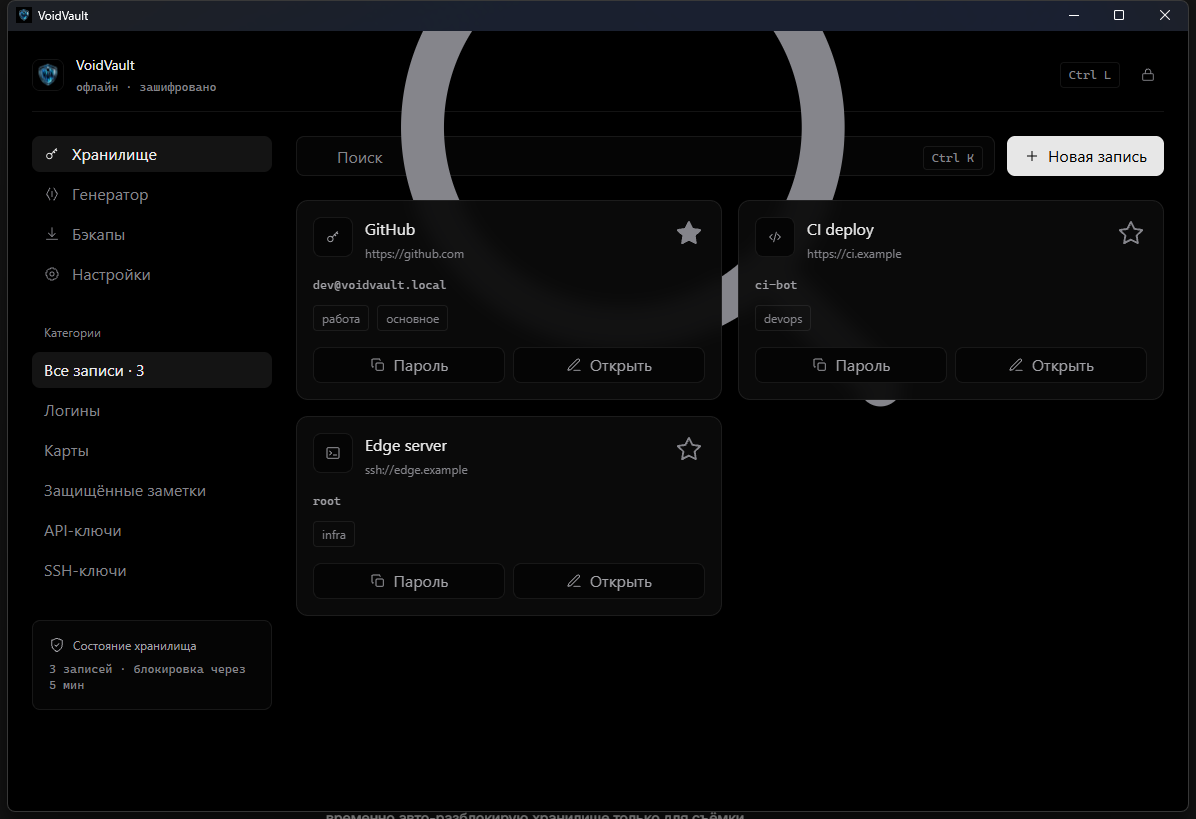
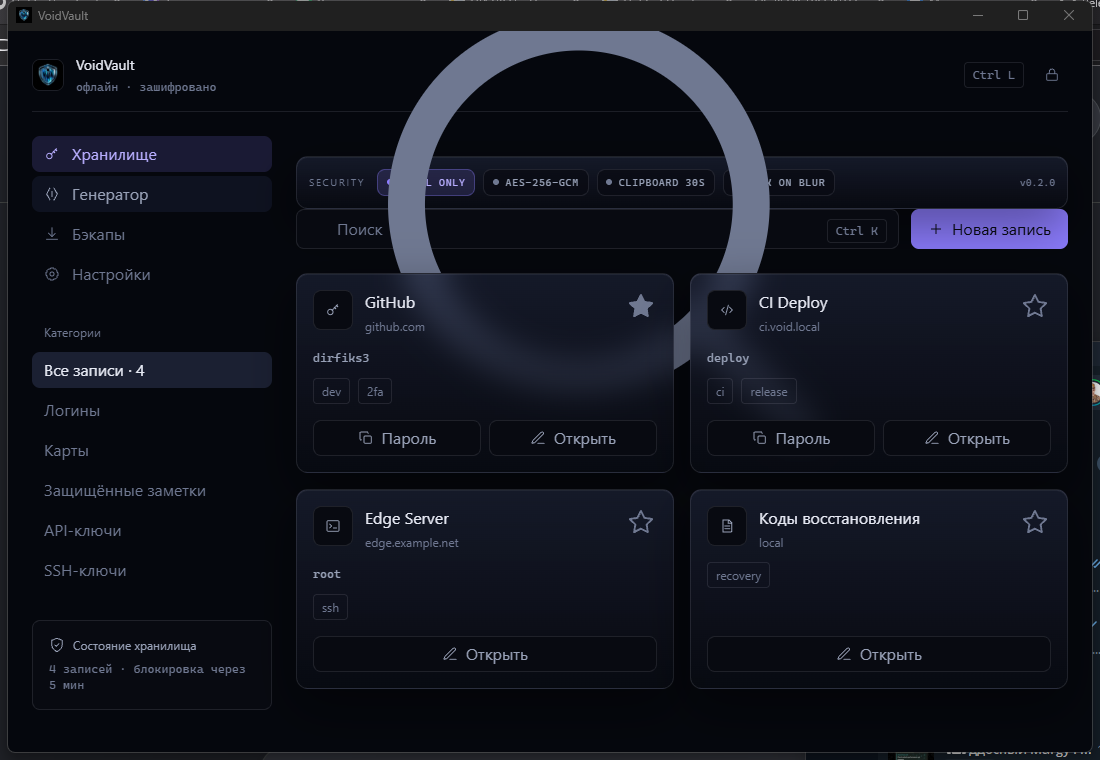
Release v0.2.0: safer clipboard clearing and voidcode-styled UI
- Verify clipboard content before the 30s clear, purge on autolock
- Add SecurityRibbon and voidcode palette, chips and glass panels
- Refresh banner and screenshots, bump version and release links

diff --git a/src/components/ui.tsx b/src/components/ui.tsx
@@ -98,7 +98,7 @@ export function Button({ variant = "ghost", size = "md", className, ...props }: 
       className={cx(
         "inline-flex items-center justify-center gap-2 rounded-lg border transition-colors disabled:cursor-not-allowed disabled:opacity-40",
         size === "sm" ? "h-8 px-3 text-xs" : "h-10 px-4 text-sm",
-        variant === "primary" && "border-transparent bg-[var(--void-accent)] text-black hover:bg-white",
+        variant === "primary" && "border-transparent bg-[var(--void-accent)] text-[#080a11] hover:bg-[#a094ff]",
         variant === "ghost" && "border-[var(--void-line)] bg-[var(--void-surface)] text-[var(--void-text)] hover:border-[var(--void-line-strong)] hover:bg-[var(--void-raised)]",
         variant === "danger" && "border-[var(--void-line-strong)] bg-transparent text-[var(--void-text)] hover:bg-white/10",
         variant === "subtle" && "border-transparent bg-transparent text-[var(--void-text-secondary)] hover:bg-white/5 hover:text-[var(--void-text)]",
@@ -133,13 +133,44 @@ export function Field({ label, hint, children }: { label: string; hint?: string;
 }
 
 export const inputClass =
-  "h-10 w-full rounded-lg border border-[var(--void-line)] bg-[var(--void-inset)] px-3 text-sm text-[var(--void-text)] placeholder:text-[var(--void-text-muted)] focus:border-[var(--void-line-strong)] focus:outline-none";
+  "h-10 w-full rounded-lg border border-[var(--void-line)] bg-[var(--void-inset)] px-3 text-sm text-[var(--void-text)] placeholder:text-[var(--void-text-muted)] focus:border-[var(--void-accent)] focus:outline-none";
+
+export function SecurityRibbon() {
+  const items = [
+    { label: "LOCAL ONLY", tone: "accent" },
+    { label: "AES-256-GCM", tone: "plain" },
+    { label: "CLIPBOARD 30S", tone: "plain" },
+    { label: "LOCK ON BLUR", tone: "good" },
+  ] as const;
+
+  return (
+    <div className="glass mt-5 flex flex-wrap items-center gap-2 rounded-xl px-3 py-3">
+      <span className="eyebrow mr-1">SECURITY</span>
+      {items.map((item) => (
+        <span key={item.label} className={cx("chip", item.tone === "accent" && "chip-accent")}>
+          <span
+            className={cx(
+              "h-1.5 w-1.5 rounded-full",
+              item.tone === "accent"
+                ? "bg-[var(--void-accent)]"
+                : item.tone === "good"
+                  ? "bg-[var(--void-good)]"
+                  : "bg-[var(--void-text-muted)]",
+            )}
+          />
+          {item.label}
+        </span>
+      ))}
+      <span className="mono ml-auto text-[10px] text-[var(--void-text-muted)]">v0.2.0</span>
+    </div>
+  );
+}
 
 export const selectClass =
-  "h-10 w-full rounded-lg border border-[var(--void-line)] bg-[var(--void-inset)] px-3 text-sm text-[var(--void-text)] focus:border-[var(--void-line-strong)] focus:outline-none";
+  "h-10 w-full rounded-lg border border-[var(--void-line)] bg-[var(--void-inset)] px-3 text-sm text-[var(--void-text)] focus:border-[var(--void-accent)] focus:outline-none";
 
 export const textareaClass =
-  "w-full rounded-lg border border-[var(--void-line)] bg-[var(--void-inset)] px-3 py-2 text-sm text-[var(--void-text)] placeholder:text-[var(--void-text-muted)] focus:border-[var(--void-line-strong)] focus:outline-none";
+  "w-full rounded-lg border border-[var(--void-line)] bg-[var(--void-inset)] px-3 py-2 text-sm text-[var(--void-text)] placeholder:text-[var(--void-text-muted)] focus:border-[var(--void-accent)] focus:outline-none";
 
 export function TextInput(props: InputHTMLAttributes<HTMLInputElement>) {
   return <input {...props} className={cx(inputClass, props.className)} />;

diff --git a/src/index.css b/src/index.css
@@ -3,18 +3,21 @@
 :root {
   color-scheme: dark;
 
-  --void-bg: #000000;
-  --void-surface: #0b0b0b;
-  --void-raised: #141414;
-  --void-inset: #050505;
+  --void-bg: #05070d;
+  --void-surface: #0e1220;
+  --void-raised: #1b2032;
+  --void-inset: #080a11;
 
-  --void-line: rgba(237, 237, 237, 0.08);
-  --void-line-strong: rgba(237, 237, 237, 0.16);
+  --void-line: rgba(216, 221, 234, 0.11);
+  --void-line-strong: rgba(216, 221, 234, 0.22);
 
-  --void-text: #ededed;
-  --void-text-secondary: #a1a1a6;
-  --void-text-muted: #85858b;
-  --void-accent: #e7e7e7;
+  --void-text: #e7eaf4;
+  --void-text-secondary: #98a1b7;
+  --void-text-muted: #6f7891;
+  --void-accent: #8c7cff;
+  --void-accent-soft: rgba(140, 124, 255, 0.16);
+  --void-good: #65d6a0;
+  --void-bad: #ff7b8a;
 
   --safe-top: env(safe-area-inset-top, 0px);
   --safe-right: env(safe-area-inset-right, 0px);
@@ -36,6 +39,10 @@ body,
 }
 
 body {
+  background:
+    radial-gradient(circle at 82% -12%, rgba(140, 124, 255, 0.1), transparent 44%),
+    radial-gradient(circle at 6% 110%, rgba(101, 214, 160, 0.04), transparent 38%),
+    var(--void-bg);
   overflow-x: hidden;
   overscroll-behavior: none;
   font-family: Inter, ui-sans-serif, system-ui, -apple-system, "Segoe UI", sans-serif;
@@ -50,15 +57,44 @@ body {
 }
 
 .glass {
-  background: rgba(11, 11, 11, 0.94);
+  background: linear-gradient(180deg, rgba(27, 32, 50, 0.72), rgba(8, 10, 17, 0.9));
   border: 1px solid var(--void-line);
-  backdrop-filter: blur(8px);
+  backdrop-filter: blur(14px) saturate(140%);
+  box-shadow: inset 0 1px 0 rgba(231, 234, 244, 0.06), 0 18px 48px rgba(0, 0, 0, 0.42);
 }
 
 .glass-soft {
-  background: rgba(5, 5, 5, 0.88);
+  background: linear-gradient(180deg, rgba(20, 24, 38, 0.7), rgba(5, 7, 13, 0.86));
   border: 1px solid var(--void-line);
-  backdrop-filter: blur(8px);
+  backdrop-filter: blur(12px) saturate(130%);
+  box-shadow: inset 0 1px 0 rgba(231, 234, 244, 0.04);
+}
+
+.eyebrow {
+  font-size: 0.625rem;
+  letter-spacing: 0.16em;
+  text-transform: uppercase;
+  color: var(--void-text-muted);
+}
+
+.chip {
+  display: inline-flex;
+  align-items: center;
+  gap: 0.4rem;
+  border-radius: 0.5rem;
+  border: 1px solid var(--void-line);
+  background: rgba(8, 10, 17, 0.7);
+  padding: 0.3rem 0.55rem;
+  font-family: "JetBrains Mono", "SFMono-Regular", "Cascadia Code", Consolas, monospace;
+  font-size: 0.625rem;
+  letter-spacing: 0.08em;
+  color: var(--void-text-secondary);
+}
+
+.chip-accent {
+  border-color: rgba(140, 124, 255, 0.32);
+  background: var(--void-accent-soft);
+  color: #b8aeff;
 }
 
 .hairline {
@@ -88,7 +124,7 @@ button:focus-visible,
 input:focus-visible,
 select:focus-visible,
 textarea:focus-visible {
-  outline: 1px solid var(--void-line-strong);
+  outline: 1px solid var(--void-accent);
   outline-offset: 2px;
 }
 
@@ -97,7 +133,7 @@ input[type="range"] {
 }
 
 ::selection {
-  background: var(--void-raised);
+  background: var(--void-accent-soft);
   color: var(--void-text);
 }
 

diff --git a/src/features/vault/VaultScreen.tsx b/src/features/vault/VaultScreen.tsx
@@ -1,6 +1,6 @@
 import { AnimatePresence, motion } from "motion/react";
 import { useEffect, useRef } from "react";
-import { Button, CATEGORY_META, Icon, IconButton, cx } from "../../components/ui";
+import { Button, CATEGORY_META, Icon, IconButton, SecurityRibbon, cx } from "../../components/ui";
 import { api, errorMessage } from "../../lib/ipc";
 import { useVaultStore } from "../../store/vaultStore";
 import type { Category, View } from "../../types";
@@ -132,7 +132,7 @@ export function VaultScreen() {
                 className={cx(
                   "flex h-9 items-center gap-3 rounded-lg px-3 text-left text-sm transition-colors",
                   view === entry.key
-                    ? "bg-[var(--void-raised)] text-[var(--void-text)]"
+                    ? "bg-[var(--void-accent-soft)] text-[#b8aeff]"
                     : "text-[var(--void-text-muted)] hover:bg-[var(--void-surface)] hover:text-[var(--void-text-secondary)]",
                 )}
               >
@@ -183,6 +183,8 @@ export function VaultScreen() {
         </aside>
 
         <main className="min-w-0">
+          <SecurityRibbon />
+
           {view === "items" && (
             <>
               <div className="flex flex-col gap-3 sm:flex-row sm:items-center">
@@ -293,7 +295,7 @@ export function VaultScreen() {
             className={cx(
               "flex h-12 flex-1 flex-col items-center justify-center gap-1 rounded-lg text-xs transition-colors",
               view === entry.key
-                ? "bg-[var(--void-raised)] text-[var(--void-text)]"
+                ? "bg-[var(--void-accent-soft)] text-[#b8aeff]"
                 : "text-[var(--void-text-muted)]",
             )}
           >

diff --git a/src/App.tsx b/src/App.tsx
@@ -93,14 +93,14 @@ export default function App() {
 
   if (!status) {
     return (
-      <div className="flex min-h-screen items-center justify-center bg-black">
+      <div className="flex min-h-screen items-center justify-center bg-[var(--void-bg)]">
         <img src="/logo.png" alt="VoidVault" className="h-12 w-12 rounded-lg border border-[var(--void-line)]" />
       </div>
     );
   }
 
   return (
-    <div className="min-h-screen bg-black text-[var(--void-text)]">
+    <div className="min-h-screen bg-[var(--void-bg)] text-[var(--void-text)]">
       <AnimatePresence mode="wait">
         {status.unlocked ? (
           <motion.div key="vault" initial={{ opacity: 0 }} animate={{ opacity: 1 }} exit={{ opacity: 0 }} transition={{ duration: 0.16 }}>

diff --git a/src/features/vault/ItemCard.tsx b/src/features/vault/ItemCard.tsx
@@ -86,7 +86,7 @@ export function ItemCard({ item, onOpen, onCopyPassword, onCopyTotp, onToggleFav
             </div>
             <div className="mt-3 h-1 w-full overflow-hidden rounded-full bg-[var(--void-raised)]">
               <div
-                className="h-full w-full origin-left rounded-full bg-[var(--void-text-secondary)] transition-transform duration-200 ease-linear"
+                className="h-full w-full origin-left rounded-full bg-[var(--void-accent)] transition-transform duration-200 ease-linear"
                 style={{ transform: `scaleX(${countdown})` }}
               />
             </div>

diff --git a/src/features/lock/LockScreen.tsx b/src/features/lock/LockScreen.tsx
@@ -139,7 +139,7 @@ export function LockScreen() {
                 </div>
                 <div className="h-1 w-full overflow-hidden rounded-full bg-[var(--void-raised)]">
                   <div
-                    className="h-full w-full origin-left rounded-full bg-[var(--void-text-secondary)] transition-transform duration-200 ease-linear"
+                    className="h-full w-full origin-left rounded-full bg-[var(--void-accent)] transition-transform duration-200 ease-linear"
                     style={{ transform: `scaleX(${strength / 100})` }}
                   />
                 </div>

diff --git a/src-tauri/src/security.rs b/src-tauri/src/security.rs
@@ -151,6 +151,17 @@ pub fn constant_time_eq(left: &[u8], right: &[u8]) -> bool {
     bool::from(left.ct_eq(right))
 }
 
+/// Буфер можно чистить только если токен всё ещё наш и содержимое не изменилось.
+/// Иначе за 30 секунд пользователь мог скопировать что-то другое — стирать это нельзя.
+pub fn should_clear_clipboard(
+    current_token: u64,
+    copied_token: u64,
+    current_value: &[u8],
+    expected_secret: &[u8],
+) -> bool {
+    current_token == copied_token && constant_time_eq(current_value, expected_secret)
+}
+
 /// Выводит ключ из пароля и проверяет его через зашифрованный верификатор.
 /// Возвращает тот же самый ключ, который затем можно положить в состояние —
 /// Argon2id выполняется один раз. Расшифрованный верификатор живёт в Zeroizing
@@ -293,6 +304,15 @@ mod tests {
         assert!(!constant_time_eq(b"voidvault", b"voidvaulT"));
         assert!(!constant_time_eq(b"void", b"voidvault"));
         assert!(constant_time_eq(b"", b""));
+    }
+
+    #[test]
+    fn clipboard_clear_requires_fresh_token_and_matching_secret() {
+        assert!(should_clear_clipboard(7, 7, b"secret", b"secret"));
+        assert!(!should_clear_clipboard(8, 7, b"secret", b"secret"));
+        assert!(!should_clear_clipboard(7, 7, b"other", b"secret"));
+        assert!(!should_clear_clipboard(7, 7, b"secreT", b"secret"));
+        assert!(!should_clear_clipboard(7, 7, b"secret-extra", b"secret"));
     }
 
     #[test]

diff --git a/src-tauri/src/commands.rs b/src-tauri/src/commands.rs
@@ -318,6 +318,10 @@ pub fn copy_secret(
         .write_secret(&*secret)
         .map_err(|error| AppError::new(format!("Не удалось скопировать: {error}")))?;
 
+    // Держим копию только внутри потока очистки: если за 30 секунд пользователь
+    // скопировал что-то другое, буфер трогать нельзя. Zeroizing снимет копию
+    // при завершении потока даже при ошибке чтения буфера.
+    let expected = Zeroizing::new(secret.as_bytes().to_vec());
     let app_handle = app.clone();
     std::thread::spawn(move || {
         std::thread::sleep(std::time::Duration::from_secs(30));
@@ -325,10 +329,15 @@ pub fn copy_secret(
             .state::<VaultState>()
             .clipboard_token
             .load(Ordering::SeqCst);
-        if current == token {
-            let _ = app_handle.clipboard().clear();
-            let _ = app_handle.emit("clipboard-cleared", ());
+        let actual = match app_handle.clipboard().read_text() {
+            Ok(value) => Zeroizing::new(value),
+            Err(_) => return,
+        };
+        if !security::should_clear_clipboard(current, token, actual.as_bytes(), &expected) {
+            return;
         }
+        let _ = app_handle.clipboard().clear();
+        let _ = app_handle.emit("clipboard-cleared", ());
     });
 
     Ok(ClipboardStatus {

diff --git a/src-tauri/src/autolock.rs b/src-tauri/src/autolock.rs
@@ -4,6 +4,7 @@ use std::{
     time::Duration,
 };
 use tauri::{AppHandle, Emitter, Manager};
+use tauri_plugin_clipboard_manager::ClipboardExt;
 
 /// Событие посылается frontend только после того, как Rust уже обнулил ключ.
 /// Даже если JavaScript скомпрометирован, секрет к этому моменту недоступен.
@@ -18,6 +19,9 @@ pub fn spawn_watcher(app: AppHandle, interval: Duration) {
         thread::sleep(interval);
         let state = app.state::<VaultState>();
         if state.auto_lock_if_idle() {
+            // Ключ уже обнулён в state.lock(); дополнительно убираем секрет,
+            // который мог остаться в системном буфере после копирования.
+            let _ = app.clipboard().clear();
             let _ = app.emit(AUTO_LOCK_EVENT, ());
         }
     });
